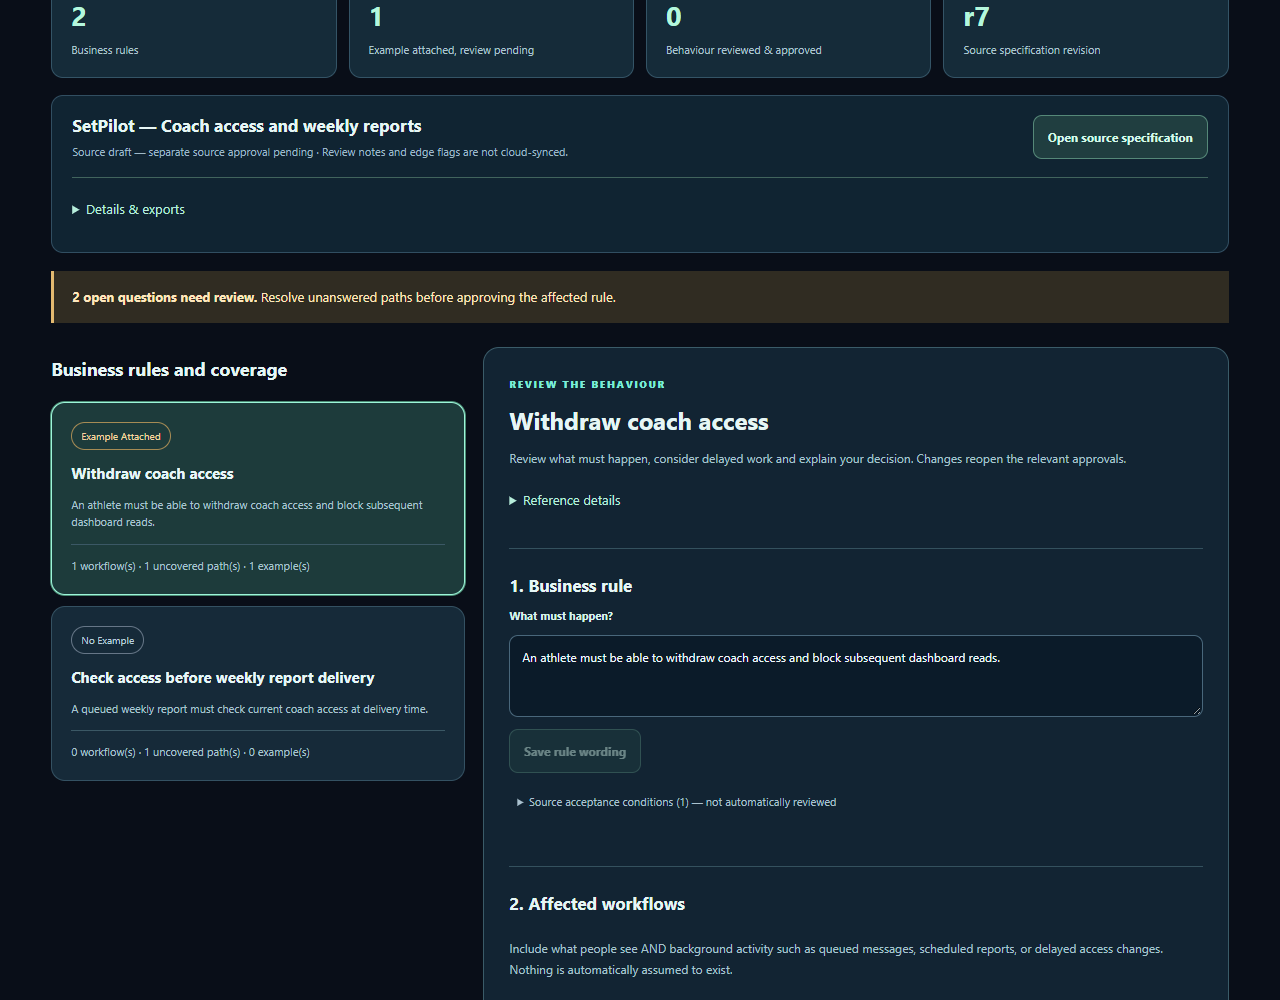
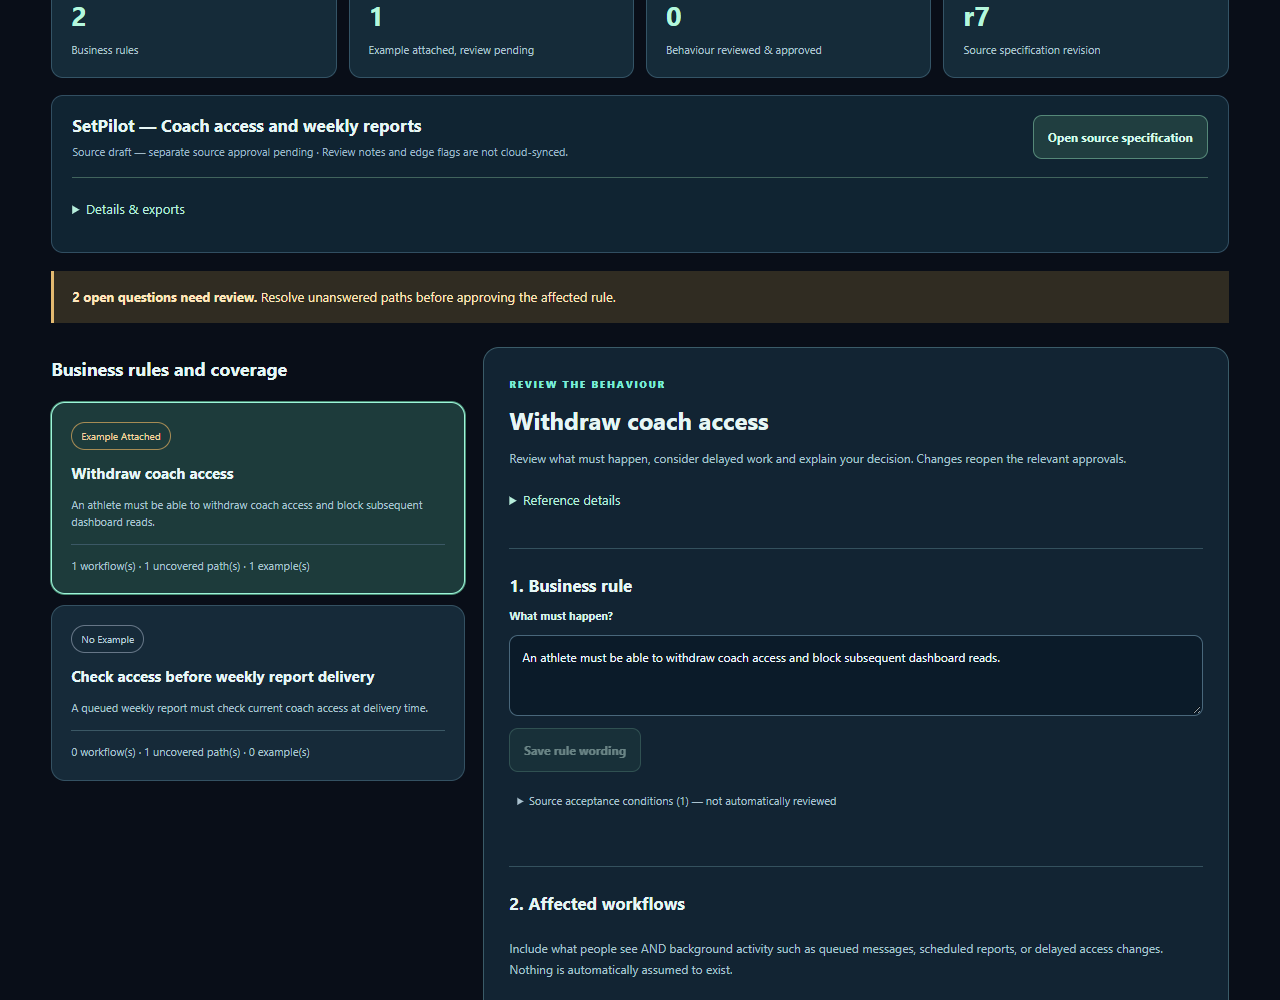
refine(ms-11.1): put business rules before ancillary import and handoff tools

Changed region(s): [[0.0312, 0.589, 0.3438, 0.713], [0.4062, 0.713, 0.5312, 0.806], [0.5625, 0.775, 0.6562, 0.806]]

diff --git a/components/business-review-canvas.tsx b/components/business-review-canvas.tsx
@@ -162,11 +162,9 @@ export default function BusinessReviewCanvas({spec,idea,projectId,onSpecificatio
   try{localStorage.removeItem(key);setRawRecovery(null);setDocument(createStakeholderReview(spec));setMessage('Invalid review cache cleared with your confirmation.');}catch{setMessage('Storage could not be cleared. Original review cache remains.');}
  }
  return <section className="business-view" aria-labelledby="business-view-title">
-  <header className="business-hero"><div><span className="eyebrow">SPRINT 08 · BUSINESS REVIEW</span><h1 id="business-view-title">Understand the rules.<br/><em>See what could be missed.</em></h1><p>Review how your product should behave, including the work people never see. The same source requirements remain available to engineers. Nothing is approved automatically.</p></div><span className="business-local">REVIEW NOTES: BROWSER ONLY</span></header>
-  <VibeImportPanel spec={spec} key={projectId??'guest'} review={ready?document:null} reviewReady={canImport&&(!spec||ready)} onCommit={commitVibeImport}/>
+  <header className="business-hero"><div><span className="eyebrow">BUSINESS REVIEW</span><h1 id="business-view-title">Understand the rules.<br/><em>See what could be missed.</em></h1><p>Review how your product should behave, including the work people never see. The same source requirements remain available to engineers. Nothing is approved automatically.</p></div><span className="business-local">REVIEW NOTES: BROWSER ONLY</span></header>
   {!spec?<section className="business-empty"><h2>Start with your product idea</h2><p>{idea.trim()||'No idea has been saved yet.'}</p><p>Write the first specification to make its business rules visible here.</p><button className="business-primary" onClick={onCreateSpecification}>Start a specification</button></section>:
    <>
-    <HandoffModal key={key} spec={spec} review={ready?document:null} projectId={projectId} reviewReady={canImport&&ready}/>
     <div className="business-summary"><div><strong>{cards.length}</strong><span>Business rules</span></div><div><strong>{examples}</strong><span>Example attached, review pending</span></div><div><strong>{signed}</strong><span>Behaviour reviewed &amp; approved</span></div><div><strong>r{spec.revision}</strong><span>Source specification revision</span></div></div>
     <div className="business-source"><div><strong>{spec.title}</strong><p>{spec.approval.status==='approved'?'Source approved':'Source draft — separate source approval pending'} · Review notes and edge flags are not cloud-synced.</p></div><button className="business-outline" onClick={onOpenSpecification}>Open source specification</button>
     <details className="business-exports"><summary>Details &amp; exports</summary><p>Specification {spec.id} · Source revision {spec.revision}</p><ul>{cards.map(c=><li key={c.id}>{c.id}: {c.title||'Untitled rule'}</li>)}</ul><div className="business-source-actions">{document&&ready&&<button className="business-outline" onClick={()=>download('stakeholder-review-r'+document.revision+'.json',JSON.stringify(document,null,2))}>Export review JSON</button>}{ready&&<button className="business-outline" onClick={()=>{
@@ -182,7 +180,9 @@ export default function BusinessReviewCanvas({spec,idea,projectId,onSpecificatio
      {active&&<RuleEditor key={active.id} card={active} spec={spec} doc={document} onChange={setDocument} onWording={statement=>onSpecificationChange(updateRequirement(spec,active.id,{statement}))}/>}
     </div>}
     {cards.length===0&&<div className="business-empty"><p>No rules exist in this specification yet. Add them in the source specification.</p><button className="business-primary" onClick={onOpenSpecification}>Add business rules</button></div>}
+    <HandoffModal key={key} spec={spec} review={ready?document:null} projectId={projectId} reviewReady={canImport&&ready}/>
    </>}
+  <VibeImportPanel spec={spec} key={projectId??'guest'} review={ready?document:null} reviewReady={canImport&&(!spec||ready)} onCommit={commitVibeImport}/>
   {message&&<p role="status" className="business-notice">{message}</p>}
   <p className="business-disclaimer">Coverage here means stakeholder documentation and explicit human review — not test execution, code verification, GitHub approval, deployment, or proof that every unknown edge case has been found.</p>
  </section>;

diff --git a/docs/MINI_SPRINT_11_1.md b/docs/MINI_SPRINT_11_1.md
@@ -4,7 +4,7 @@ Owner authorization: 22 November 2026. Base commit: `30d9a0a1799059ea03848e0116e
 
 ## Delivered scope
 
-- Business Review moves technical exports and identifiers into keyboard-accessible Details & exports / Reference details disclosures. Source approval, browser-only storage and open questions stay visible. Export schemas and approval semantics are unchanged.
+- Business Review moves technical exports and identifiers into keyboard-accessible Details & exports / Reference details disclosures. Ancillary handoff and import panels follow the business rules. Source approval, browser-only storage and open questions stay visible. Export schemas and approval semantics are unchanged.
 - The independent demo starts with an editable, fictitious SetPilot coach-access and queued weekly-report sample. The source and behaviour decisions are drafts. The potential background path remains an OPEN question, not a confirmed workflow. This fixture is separate from the frozen study scenarios.
 - Reset demo sample requires confirmation, restores the original sample and removes only its known review/provenance/planning/handoff records. Unrelated evaluation and workspace records survive. A failed write attempts restoration and reports its actual outcome. Browser crash recovery is not an atomic storage guarantee.
 - Demo edits remain local. The demo build uses only the public `NEXT_PUBLIC_VISUAL_SDD_DEMO=1` switch; no Auth or database credential is provisioned. Cloud/API and OAuth callback paths are gated before Auth initialization. The normal build retains existing authentication and owner checks.
